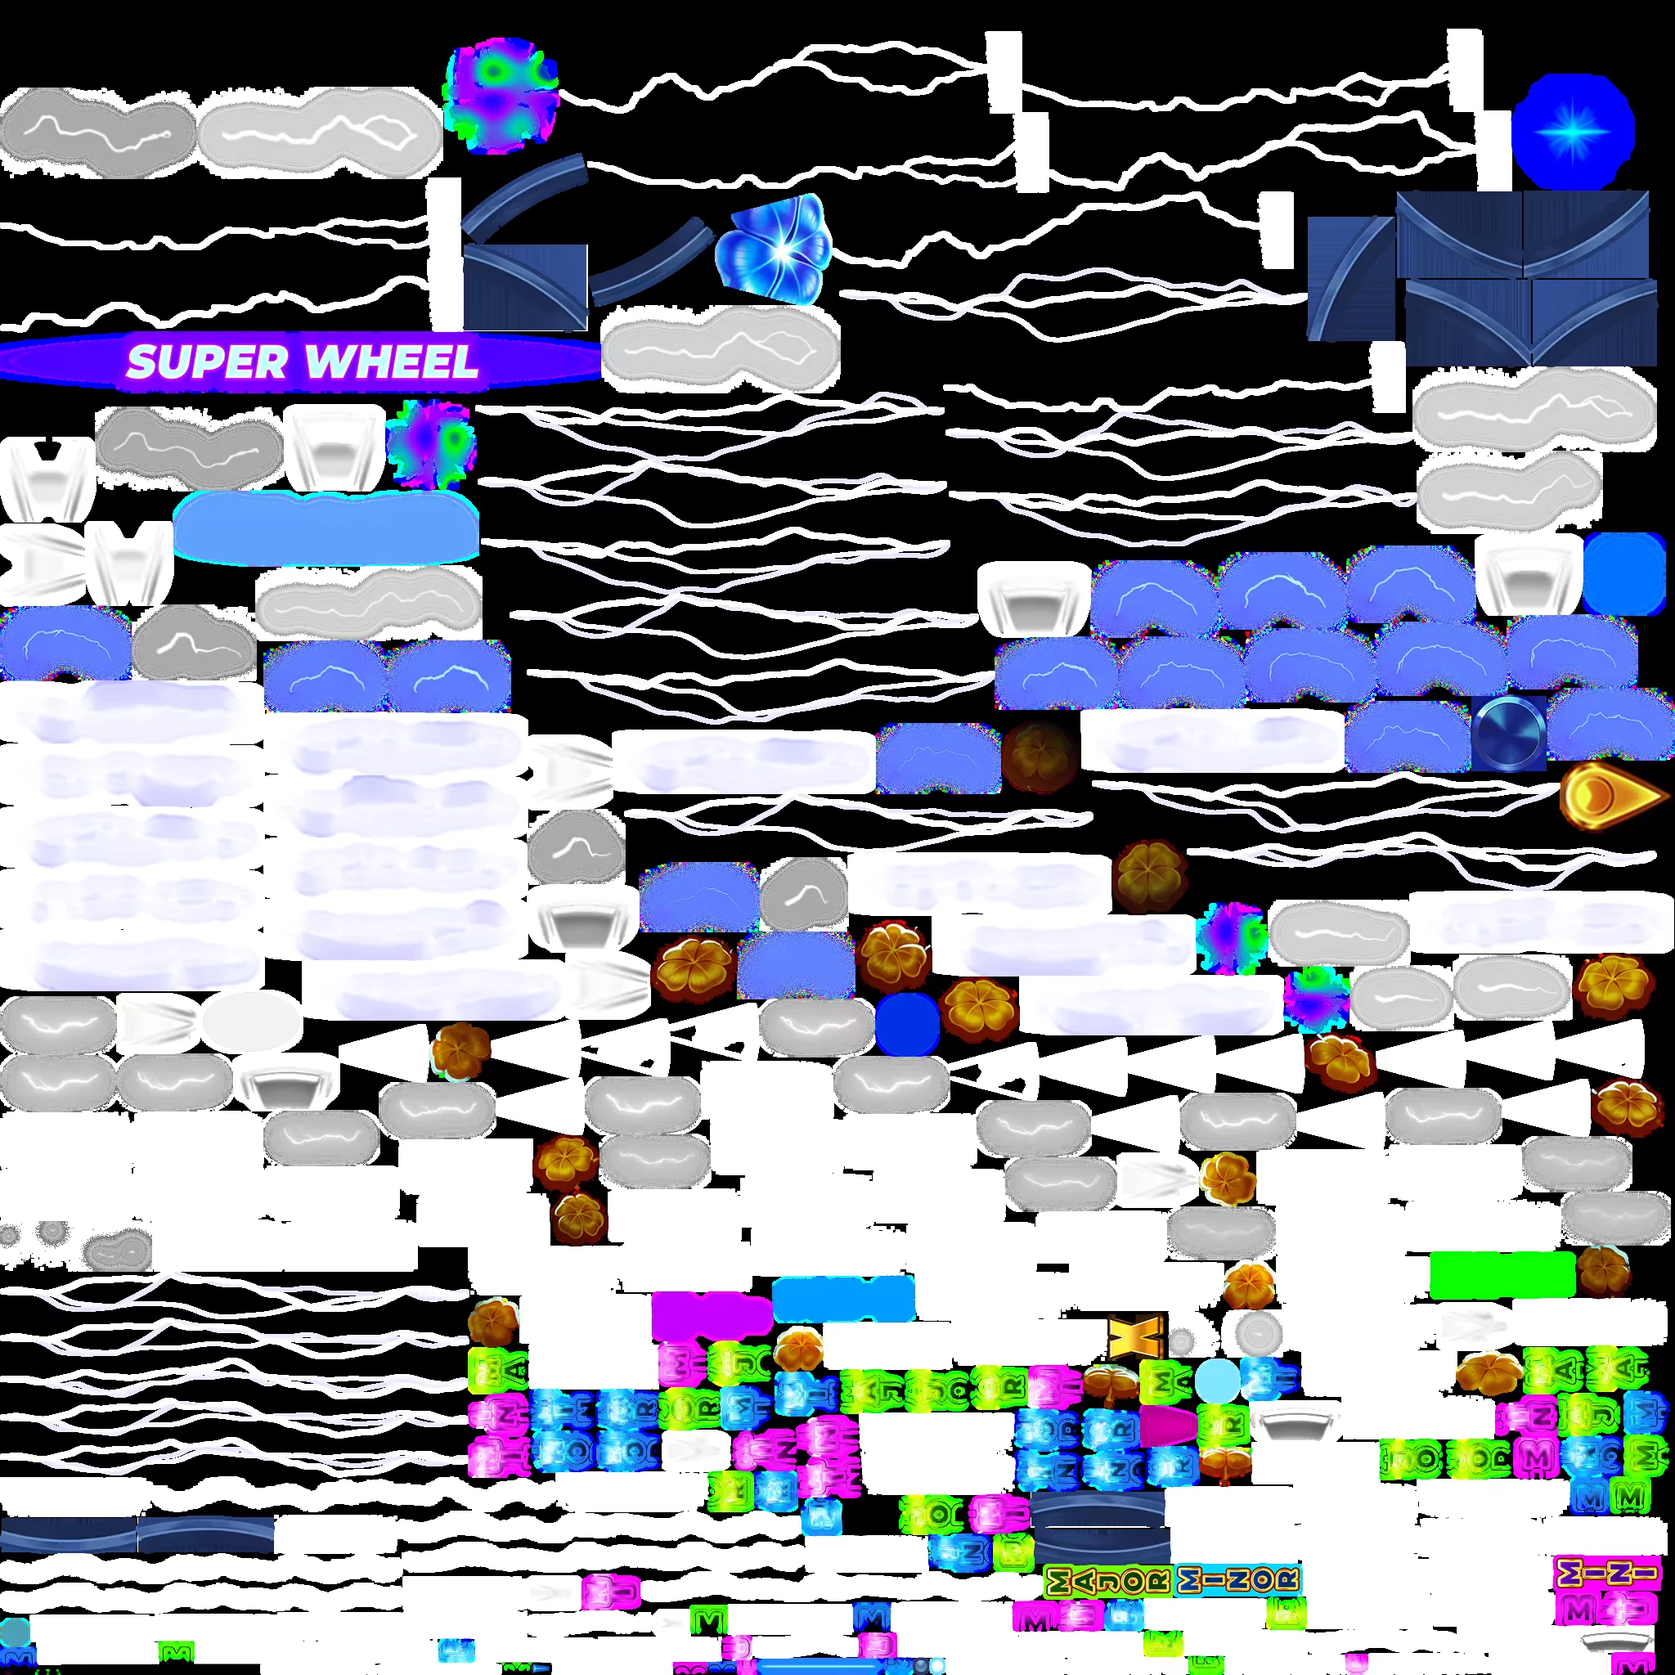
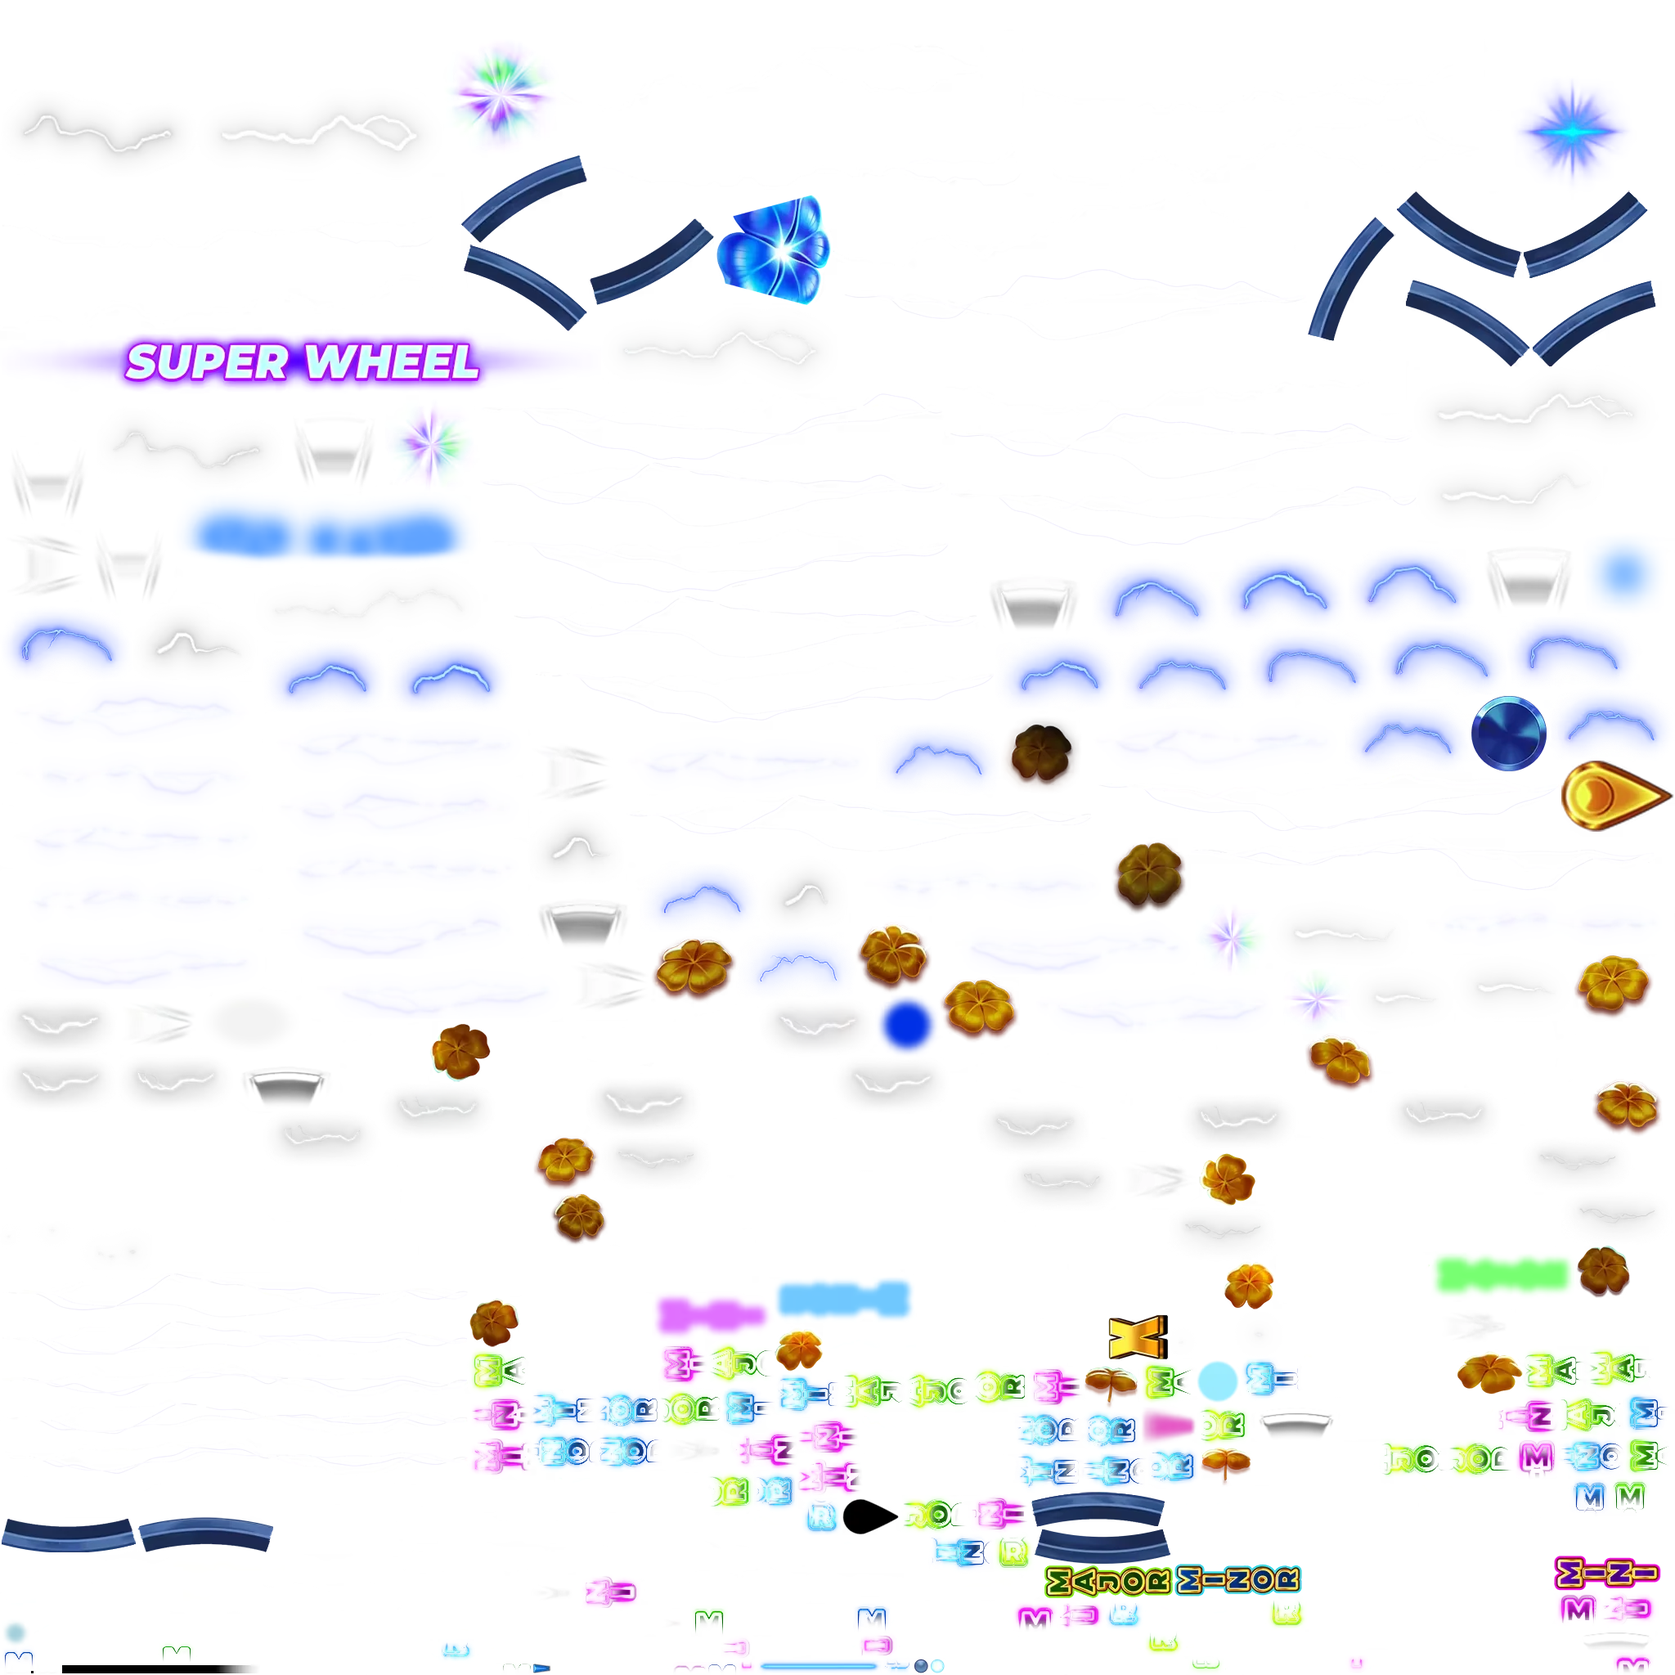
fix(site): built-in skin registration, Spine atlas rotation, Playson wheel composition
Register the built-in ring and pointer skins from WheelBuilder.build()
instead of side-effect imports a bundler may drop. Read rotated Spine
atlas regions with groupD8 6 (stored 90 degrees counter-clockwise),
re-export the Playson pages with alpha, seat each wedge plate by its
apex, add multiplier values, and point the Pragmatic stopper into the
wheel. The e2e suite now fails on a recipe runtime error.

diff --git a/apps/site/src/runtime/playsonWheel.ts b/apps/site/src/runtime/playsonWheel.ts
@@ -1,4 +1,4 @@
-import { Assets, Container, Sprite, type Texture } from 'pixi.js';
+import { Assets, Container, Sprite, Text, type Texture } from 'pixi.js';
 import { DEG_TO_RAD, type ResolvedSection, type RingSkin, type RingSkinContext } from 'pixi-wheels';
 import { parseSpineAtlas, texturesFromAtlas } from './spineAtlas.ts';
 
@@ -55,15 +55,35 @@ export interface PlaysonWheelSkinOptions {
   bulbBlinkMs?: number;
 }
 
-const PLATE_REGION: Record<PlaysonPlate, { base: string; bevel?: string; title?: string }> = {
-  mini: { base: 'wheel/mini/mini_sector', title: 'wheel/mini/mini_title' },
-  minor: { base: 'wheel/minor/minor_sector', title: 'wheel/minor/minor_title' },
-  major: { base: 'wheel/major/major_sector', title: 'wheel/major/major_title' },
-  coin: { base: 'wheel/coin_sector_1' },
-  collect: { base: 'wheel/collect/collect_sector_bg', bevel: 'wheel/collect/collect_sector_bavel' },
-  multi: { base: 'wheel/multi/multi_sector_bg', bevel: 'wheel/multi/multi_sector_bavel' },
-  mystery: { base: 'wheel/mystery/mystery_sector_bg', bevel: 'wheel/mystery/mystery_sector_bavel' },
+type Apex = 'up' | 'down';
+
+/**
+ * The plates are wedges whose apex sits on the hub. The artists exported
+ * some with the apex at the top of the image and some at the bottom; the
+ * skeleton used to hide that with per-attachment rotation, so the table
+ * records it here.
+ */
+const PLATE_REGION: Record<PlaysonPlate, { base: string; baseApex: Apex; bevel?: string; bevelApex?: Apex; icon?: string; title?: string }> = {
+  mini: { base: 'wheel/mini/mini_sector', baseApex: 'up', title: 'wheel/mini/mini_title' },
+  minor: { base: 'wheel/minor/minor_sector', baseApex: 'down', title: 'wheel/minor/minor_title' },
+  major: { base: 'wheel/major/major_sector', baseApex: 'down', title: 'wheel/major/major_title' },
+  coin: { base: 'wheel/coin_sector_1', baseApex: 'down' },
+  collect: { base: 'wheel/collect/collect_sector_bg', baseApex: 'up', bevel: 'wheel/collect/collect_sector_bavel', bevelApex: 'up', icon: 'wheel/collect/collect_sector_bg_clover' },
+  multi: { base: 'wheel/multi/multi_sector_bg', baseApex: 'down', bevel: 'wheel/multi/multi_sector_bavel', bevelApex: 'down', icon: 'wheel/multi/multi_sector_bg_clover' },
+  mystery: { base: 'wheel/mystery/mystery_sector_bg', baseApex: 'down', bevel: 'wheel/mystery/mystery_sector_bavel', bevelApex: 'down', icon: 'wheel/mystery/mystery_sector_bg_clover' },
 };
+
+/** Seat a wedge sprite with its apex on the hub and its wide end out along `mid` (radians). */
+function seatWedge(sprite: Sprite, apex: Apex, mid: number, scale: number): void {
+  sprite.scale.set(scale);
+  if (apex === 'down') {
+    sprite.anchor.set(0.5, 1);
+    sprite.rotation = mid + Math.PI / 2;
+  } else {
+    sprite.anchor.set(0.5, 0);
+    sprite.rotation = mid - Math.PI / 2;
+  }
+}
 
 function defaultPlate(section: ResolvedSection): PlaysonPlate {
   const hay = `${section.id} ${String(section.value ?? '')} ${section.tags.join(' ')}`.toLowerCase();
@@ -113,34 +133,50 @@ export class PlaysonWheelSkin implements RingSkin {
       const def = PLATE_REGION[plate];
       const mid = s.midAngle * DEG_TO_RAD;
       const base = new Sprite(tex(def.base));
-      base.anchor.set(0.5, 1);
-      base.scale.set(k);
-      base.rotation = mid + Math.PI / 2;
+      seatWedge(base, def.baseApex, mid, k);
       this._plates.addChild(base);
       if (def.bevel) {
         const bevel = new Sprite(tex(def.bevel));
-        bevel.anchor.set(0.5, 1);
-        bevel.scale.set(k);
-        bevel.rotation = mid + Math.PI / 2;
+        seatWedge(bevel, def.bevelApex ?? 'down', mid, k);
         this._plates.addChild(bevel);
+      }
+      if (def.icon) {
+        const icon = new Sprite(tex(def.icon));
+        icon.anchor.set(0.5);
+        icon.scale.set(k * 0.9);
+        const r = R * 0.64;
+        icon.position.set(Math.cos(mid) * r, Math.sin(mid) * r);
+        icon.rotation = mid + Math.PI / 2;
+        this._titles.addChild(icon);
       }
       if ((this._opts.titles ?? true) && def.title) {
         const title = new Sprite(tex(def.title));
         title.anchor.set(0.5);
         title.scale.set(k * 0.95);
-        const r = R * 0.72;
+        const r = R * 0.66;
         title.position.set(Math.cos(mid) * r, Math.sin(mid) * r);
+        // The titles are letters stacked top to bottom; the first letter goes to the rim.
         title.rotation = mid + Math.PI / 2;
         this._titles.addChild(title);
       }
       if ((this._opts.titles ?? true) && plate === 'coin' && typeof s.value === 'number') {
+        // The game writes the multiplier with a bitmap font; a gold Text stands in for it.
         const x = new Sprite(tex('wheel/x'));
         x.anchor.set(0.5);
-        x.scale.set(k);
-        const r = R * 0.62;
-        x.position.set(Math.cos(mid) * r, Math.sin(mid) * r);
+        x.scale.set(k * 0.9);
+        const rx = R * 0.72;
+        x.position.set(Math.cos(mid) * rx, Math.sin(mid) * rx);
         x.rotation = mid + Math.PI / 2;
         this._titles.addChild(x);
+        const value = new Text({
+          text: String(s.value),
+          style: { fontFamily: 'Roboto Condensed, Arial Narrow, sans-serif', fontSize: Math.round(56 * k), fontWeight: '900', fill: 0xffd75e, stroke: { color: 0x3a2a00, width: Math.max(2, 5 * k) } },
+        });
+        value.anchor.set(0.5);
+        const rv = R * 0.5;
+        value.position.set(Math.cos(mid) * rv, Math.sin(mid) * rv);
+        value.rotation = mid + Math.PI / 2;
+        this._titles.addChild(value);
       }
     }
     // Dividers on every boundary.
@@ -219,11 +255,9 @@ export class PlaysonWheelSkin implements RingSkin {
     if (!sectionId || !ctx.geometry.has(sectionId)) return;
     const s = ctx.geometry.byId(sectionId);
     const glow = new Sprite(this._opts.art.textures['wheel/sector_glow']);
-    glow.anchor.set(0.5, 1);
     const k = ctx.outerRadius / PLAYSON_PLATE_RADIUS;
-    glow.scale.set(k);
-    glow.rotation = s.midAngle * DEG_TO_RAD + Math.PI / 2;
-    glow.blendMode = 'add';
+    seatWedge(glow, 'up', s.midAngle * DEG_TO_RAD, k);
+    glow.alpha = 0.55;
     this._titles.addChild(glow);
     this._highlight = glow;
   }

diff --git a/packages/pixi-wheels/src/skins/builtins.ts b/packages/pixi-wheels/src/skins/builtins.ts
@@ -1,0 +1,55 @@
+import { GraphicsPointerSkin, type GraphicsPointerSkinOptions } from '../pointer/GraphicsPointerSkin.js';
+import { TexturePointerSkin, type TexturePointerSkinOptions } from '../pointer/TexturePointerSkin.js';
+import { DebugRingSkin } from './DebugRingSkin.js';
+import { GraphicsRingSkin, type GraphicsRingSkinOptions } from './GraphicsRingSkin.js';
+import { HeadlessRingSkin } from './HeadlessRingSkin.js';
+import { TextureRingSkin, type RingSkinConfigTexture } from './TextureRingSkin.js';
+import { registerPointerSkin, registerRingSkin, registeredRingSkinTypes } from './skinRegistry.js';
+
+/** The serialised form of {@link TexturePointerSkinOptions}: the texture by asset key. */
+export interface PointerSkinConfigTexture extends Omit<TexturePointerSkinOptions, 'texture'> {
+  type: 'texture';
+  texture: string;
+}
+
+export interface PointerSkinConfigGraphics extends GraphicsPointerSkinOptions {
+  type: 'graphics';
+}
+
+let registered = false;
+
+/**
+ * Register the built-in skin config types. Called from `WheelBuilder.build()`
+ * so a config-driven wheel always finds `graphics`, `debug`, `texture`,
+ * `headless` and the two pointer skins - a value import a bundler cannot
+ * drop, where a side-effect-only import could be.
+ */
+export function registerBuiltinSkins(): void {
+  if (registered && registeredRingSkinTypes().includes('graphics')) return;
+  registered = true;
+  registerRingSkin('graphics', (config) => {
+    const { type: _type, ...options } = config;
+    return new GraphicsRingSkin(options as GraphicsRingSkinOptions);
+  });
+  registerRingSkin('debug', () => new DebugRingSkin());
+  registerRingSkin('headless', () => new HeadlessRingSkin());
+  registerRingSkin('texture', (config, assets) => {
+    const { type: _type, face, frame, decorations, ...rest } = config as unknown as RingSkinConfigTexture;
+    return new TextureRingSkin({
+      ...rest,
+      face: assets.texture(face),
+      frame: frame ? assets.texture(frame) : undefined,
+      decorations: (decorations ?? []).map((d) => ({ ...d, texture: assets.texture(d.texture) })),
+    });
+  });
+  registerPointerSkin('graphics', (config) => {
+    const { type: _type, ...options } = config;
+    return new GraphicsPointerSkin(options as GraphicsPointerSkinOptions);
+  });
+  registerPointerSkin('texture', (config, assets) => {
+    const { type: _type, texture, ...rest } = config as unknown as PointerSkinConfigTexture;
+    return new TexturePointerSkin({ ...rest, texture: assets.texture(texture) });
+  });
+}
+
+registerBuiltinSkins();

diff --git a/apps/site/src/recipes/texture-wheel-pragmatic.recipe.ts b/apps/site/src/recipes/texture-wheel-pragmatic.recipe.ts
@@ -15,7 +15,7 @@ const wheel = new WheelBuilder()
     id: `p${i}`, label: String(v), value: v,
     style: { fill: i % 2 ? DARK : RED, labelColor: GOLD, labelSize: 30, labelWeight: '800' },
   })))
-  .pointer({ angle: -90, tipInset: 26, skin: new TexturePointerSkin({ texture: art.pointer, artDirection: 'down', pin: { x: 0.5, y: 0.1 }, scale: 0.7 }) })
+  .pointer({ angle: -90, tipInset: 26, skin: new TexturePointerSkin({ texture: art.pointer, artDirection: 'up', pin: { x: 0.5, y: 0.82 }, scale: 0.7 }) })
   .skin({ type: 'graphics', dividers: { width: 2, color: GOLD, alpha: 0.9 }, rim: false, hub: false, shading: true })
   .landing({ settle: 'center', mode: 'random' })
   .speed('normal', SpinPresets.NORMAL)
@@ -48,7 +48,9 @@ return {
   onSpin: async () => {
     const spin = wheel.spin();
     await new Promise((r) => setTimeout(r, 300));
-    wheel.setResult({ value: values[Math.floor(Math.random() * values.length)] }, { anticipation: { bait: 'p6' } });
+    // Always "almost the 1000": land on one of its neighbours and bait with it,
+    // so the tease creeps past it or overshoots into it and rolls back.
+    wheel.setResult({ section: Math.random() < 0.5 ? 'p5' : 'p7' }, { anticipation: { bait: 'p6' } });
     await spin;
   },
 };

diff --git a/packages/pixi-wheels/src/core/WheelBuilder.ts b/packages/pixi-wheels/src/core/WheelBuilder.ts
@@ -31,10 +31,7 @@ import { Ring } from './Ring.js';
 import { RingGeometry } from './RingGeometry.js';
 import { Wheel } from './Wheel.js';
 import { assertWheelConfig, WHEEL_CONFIG_VERSION, type PointerConfigEntry, type RingConfig, type WheelConfig } from './WheelConfig.js';
-// Side-effect imports: the built-in skins register their config types.
-import '../skins/DebugRingSkin.js';
-import '../skins/TextureRingSkin.js';
-import '../pointer/pointerSkinRegistry.js';
+import { registerBuiltinSkins } from '../skins/builtins.js';
 
 /** A pointer as the builder accepts it: placement plus a skin instance or config. */
 export interface PointerSpec extends PointerConfig {
@@ -431,6 +428,7 @@ export class WheelBuilder {
   // ── Build ───────────────────────────────────────────────────────────────
 
   build(): Wheel {
+    registerBuiltinSkins();
     if (!this._ticker) {
       throw new Error('WheelBuilder: ticker(app.ticker) must be called. The wheel advances on the PixiJS ticker.');
     }

diff --git a/packages/pixi-wheels/src/skins/TextureRingSkin.ts b/packages/pixi-wheels/src/skins/TextureRingSkin.ts
@@ -2,7 +2,6 @@ import { Container, Sprite, type Texture } from 'pixi.js';
 import { DEG_TO_RAD } from '../utils/angles.js';
 import { SectionLabels } from './labels.js';
 import type { RingSkin, RingSkinContext } from './RingSkin.js';
-import { registerRingSkin } from './skinRegistry.js';
 
 export interface TextureRingDecoration {
   /** Section id this decoration belongs to. It follows the section when weights change. */
@@ -131,15 +130,6 @@ export class TextureRingSkin implements RingSkin {
   }
 }
 
-registerRingSkin('texture', (config, assets) => {
-  const { type: _type, face, frame, decorations, ...rest } = config as unknown as RingSkinConfigTexture;
-  return new TextureRingSkin({
-    ...rest,
-    face: assets.texture(face),
-    frame: frame ? assets.texture(frame) : undefined,
-    decorations: (decorations ?? []).map((d) => ({ ...d, texture: assets.texture(d.texture) })),
-  });
-});
 
 /** The serialised form of {@link TextureRingSkinOptions}: textures by asset key. */
 export interface RingSkinConfigTexture {

diff --git a/apps/site/src/runtime/spineAtlas.ts b/apps/site/src/runtime/spineAtlas.ts
@@ -136,13 +136,17 @@ export function texturesFromAtlas(atlas: ParsedAtlas, pages: Record<string, Text
     const source: TextureSource = pageTex.source;
     // Spine's offset y is from the BOTTOM of the original image; PixiJS trim y is from the top.
     const trimY = r.origHeight - r.offsetY - r.height;
+    // A rotated Spine region is stored turned 90 degrees COUNTER-clockwise (the
+    // attachment's top edge runs up the packed rect's left side), the opposite
+    // of TexturePacker's convention, so PixiJS needs groupD8 6 (a 270 degree
+    // turn), not the usual 2.
     const frame = r.rotate ? new Rectangle(r.x, r.y, r.height, r.width) : new Rectangle(r.x, r.y, r.width, r.height);
     out[r.name] = new Texture({
       source,
       frame,
       orig: new Rectangle(0, 0, r.origWidth, r.origHeight),
       trim: new Rectangle(r.offsetX, trimY, r.width, r.height),
-      rotate: r.rotate ? 2 : 0,
+      rotate: r.rotate ? 6 : 0,
       label: r.name,
     });
   }

diff --git a/packages/pixi-wheels/src/index.ts b/packages/pixi-wheels/src/index.ts
@@ -71,7 +71,8 @@ export { GraphicsPointerSkin } from './pointer/GraphicsPointerSkin.js';
 export type { GraphicsPointerSkinOptions } from './pointer/GraphicsPointerSkin.js';
 export { TexturePointerSkin } from './pointer/TexturePointerSkin.js';
 export type { TexturePointerSkinOptions } from './pointer/TexturePointerSkin.js';
-export type { PointerSkinConfigTexture, PointerSkinConfigGraphics } from './pointer/pointerSkinRegistry.js';
+export { registerBuiltinSkins } from './skins/builtins.js';
+export type { PointerSkinConfigTexture, PointerSkinConfigGraphics } from './skins/builtins.js';
 
 // Skins
 export type { RingSkin, RingSkinContext, AssetResolver } from './skins/RingSkin.js';

diff --git a/packages/pixi-wheels/src/skins/GraphicsRingSkin.ts b/packages/pixi-wheels/src/skins/GraphicsRingSkin.ts
@@ -3,7 +3,6 @@ import type { ResolvedSection } from '../config/types.js';
 import { DEG_TO_RAD } from '../utils/angles.js';
 import { SectionLabels } from './labels.js';
 import type { RingSkin, RingSkinContext } from './RingSkin.js';
-import { registerRingSkin } from './skinRegistry.js';
 
 export interface GraphicsRingSkinOptions {
   /** Divider lines between sections. `false` for none. */
@@ -188,7 +187,3 @@ export function wedgePath(g: Graphics, s: ResolvedSection, outerRadius: number, 
   g.closePath();
 }
 
-registerRingSkin('graphics', (config) => {
-  const { type: _type, ...options } = config;
-  return new GraphicsRingSkin(options as GraphicsRingSkinOptions);
-});

diff --git a/tests/e2e/recipes-mount.spec.ts b/tests/e2e/recipes-mount.spec.ts
@@ -64,6 +64,8 @@ for (const path of PAGES) {
     for (let i = 0; i < count; i++) {
       await frames.nth(i).scrollIntoViewIfNeeded();
       await expect(frames.nth(i).locator('canvas')).toBeVisible({ timeout: 30_000 });
+      // A recipe that throws renders its error inside the frame and still has a canvas.
+      await expect(frames.nth(i).locator('.text-destructive')).toHaveCount(0);
     }
     // Every demo enables the debug handle; the last one wins the bare global.
     const state = await page.evaluate(() => {

diff --git a/packages/pixi-wheels/src/skins/DebugRingSkin.ts b/packages/pixi-wheels/src/skins/DebugRingSkin.ts
@@ -2,7 +2,6 @@ import { Container, Graphics, Text } from 'pixi.js';
 import { DEG_TO_RAD } from '../utils/angles.js';
 import { wedgePath } from './GraphicsRingSkin.js';
 import type { RingSkin, RingSkinContext } from './RingSkin.js';
-import { registerRingSkin } from './skinRegistry.js';
 
 /**
  * The plain skin: flat alternating fills, section index and id, the start
@@ -100,4 +99,3 @@ export class DebugRingSkin implements RingSkin {
   }
 }
 
-registerRingSkin('debug', () => new DebugRingSkin());

diff --git a/apps/site/src/recipes/playson-wheel.recipe.ts b/apps/site/src/recipes/playson-wheel.recipe.ts
@@ -13,7 +13,7 @@ const wheel = new WheelBuilder()
   .pointer({
     angle: -90,
     tipInset: 30,
-    skin: new TexturePointerSkin({ texture: art.textures['wheel/stopper'], artDirection: 'down', pin: { x: 0.5, y: 0.12 }, scale: 250 / 297 }),
+    skin: new TexturePointerSkin({ texture: art.textures['wheel/stopper'], artDirection: 'down', pin: { x: 0.5, y: 0.3 }, scale: 250 / 297 }),
     flap: { maxAngle: 18, stiffness: 600, damping: 16 },
   })
   .skin(new PlaysonWheelSkin({ art }))
